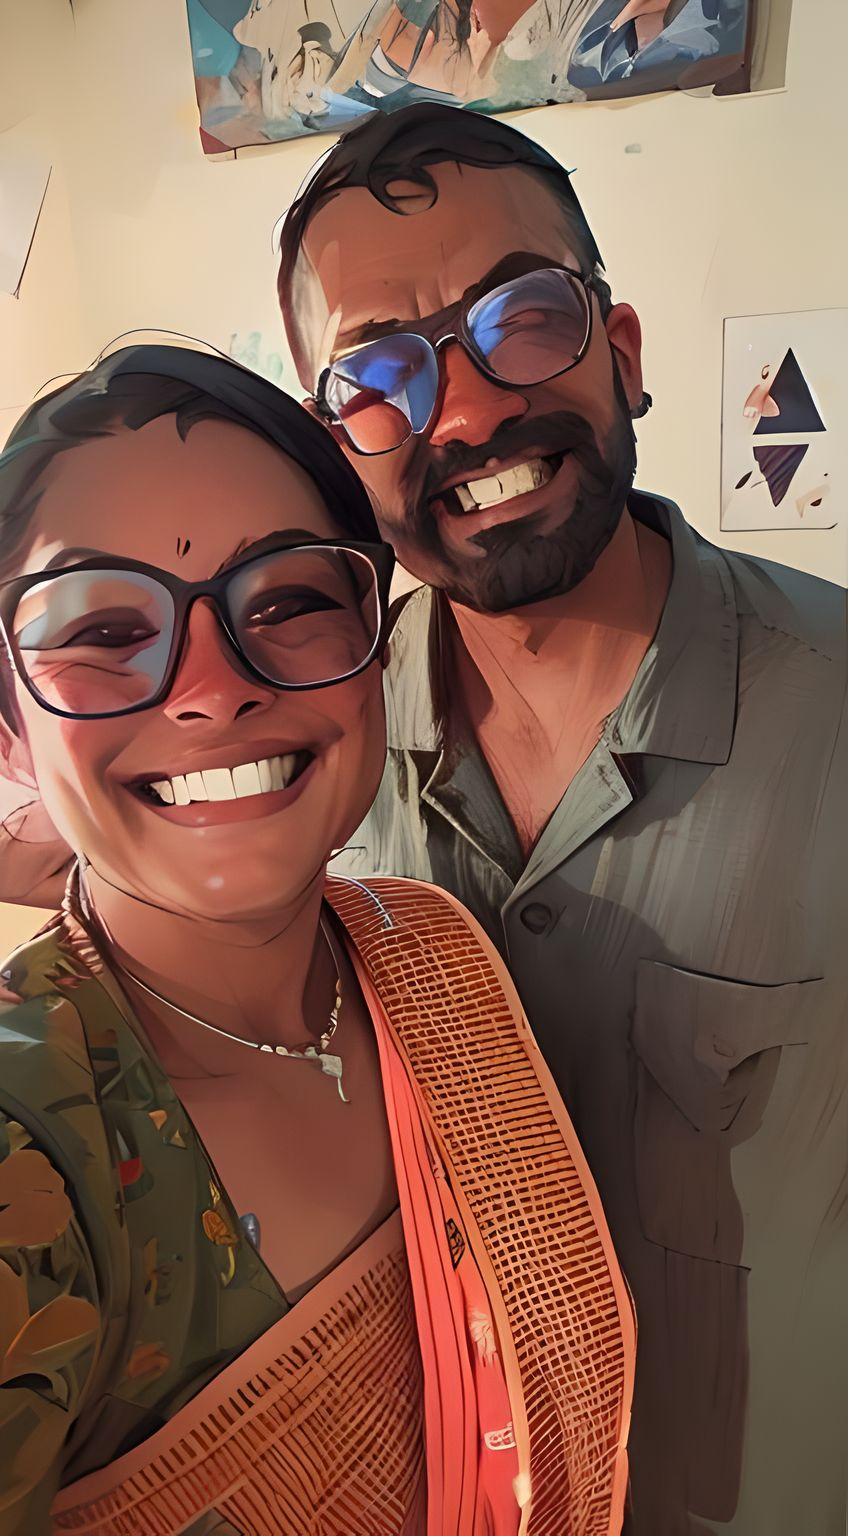
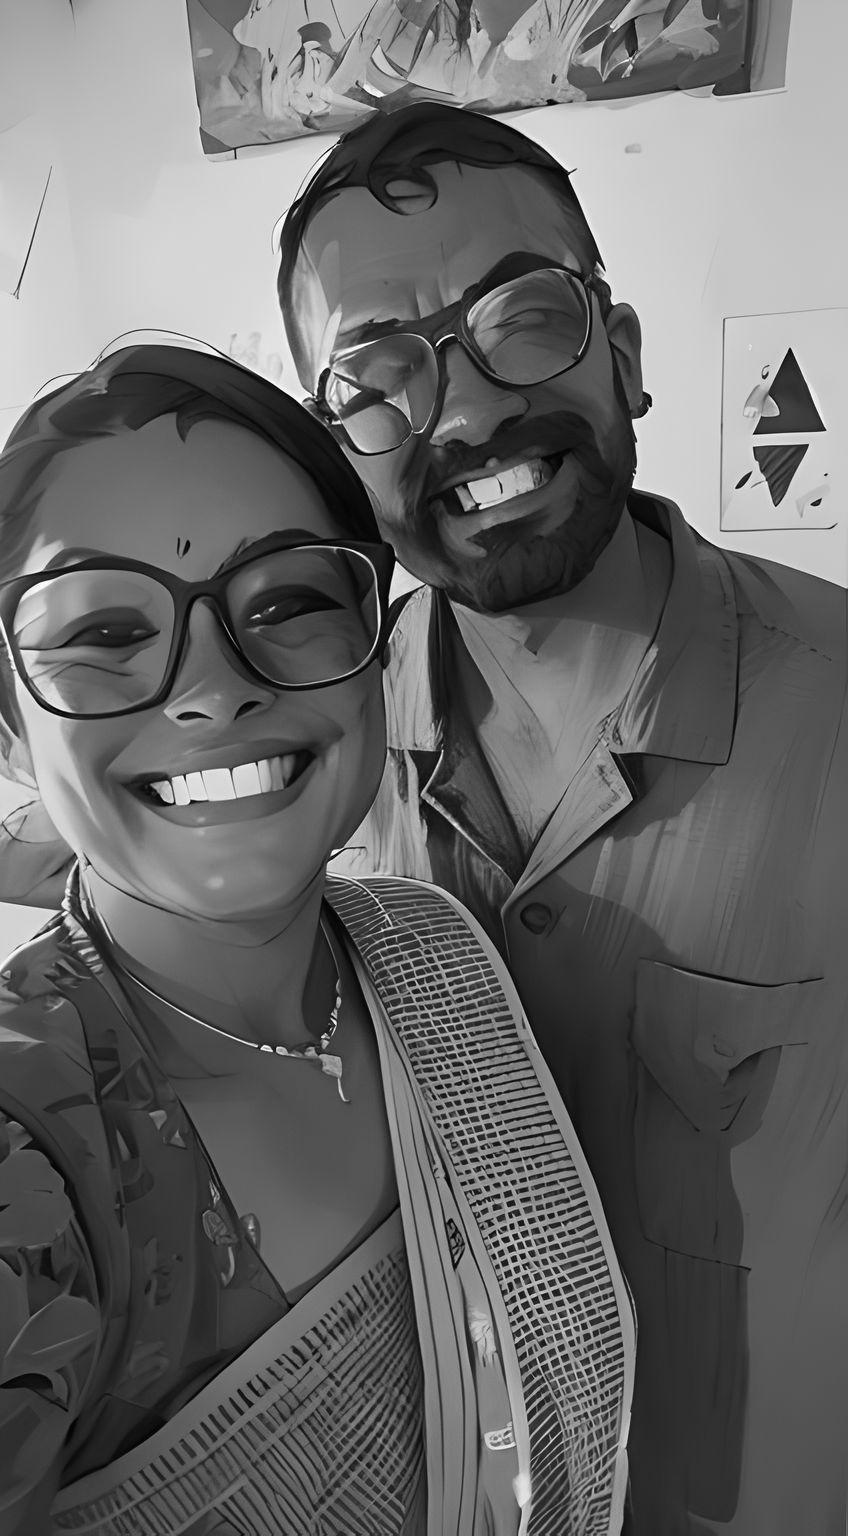
added a script to open an image in grayscale and save as png

diff --git a/1 - Opening an Image/open_image_grayscale.py b/1 - Opening an Image/open_image_grayscale.py
@@ -1,0 +1,19 @@
+# import opencv library
+import cv2
+
+# open an image
+img = cv2.imread("test_image.jpg")
+
+# convert from BGR to grayscale
+img_gray = cv2.cvtColor(img, cv2.COLOR_BGR2GRAY)
+
+# show image in a named window
+cv2.imshow("Original", img)
+# show grayscale in a new named window
+cv2.imshow("Grayscale", img_gray)
+
+# create a new image for the grayscale image in png
+cv2.imwrite("test_image_gray.png", img_gray)
+
+cv2.waitKey(5000)
+cv2.destroyAllWindows()
